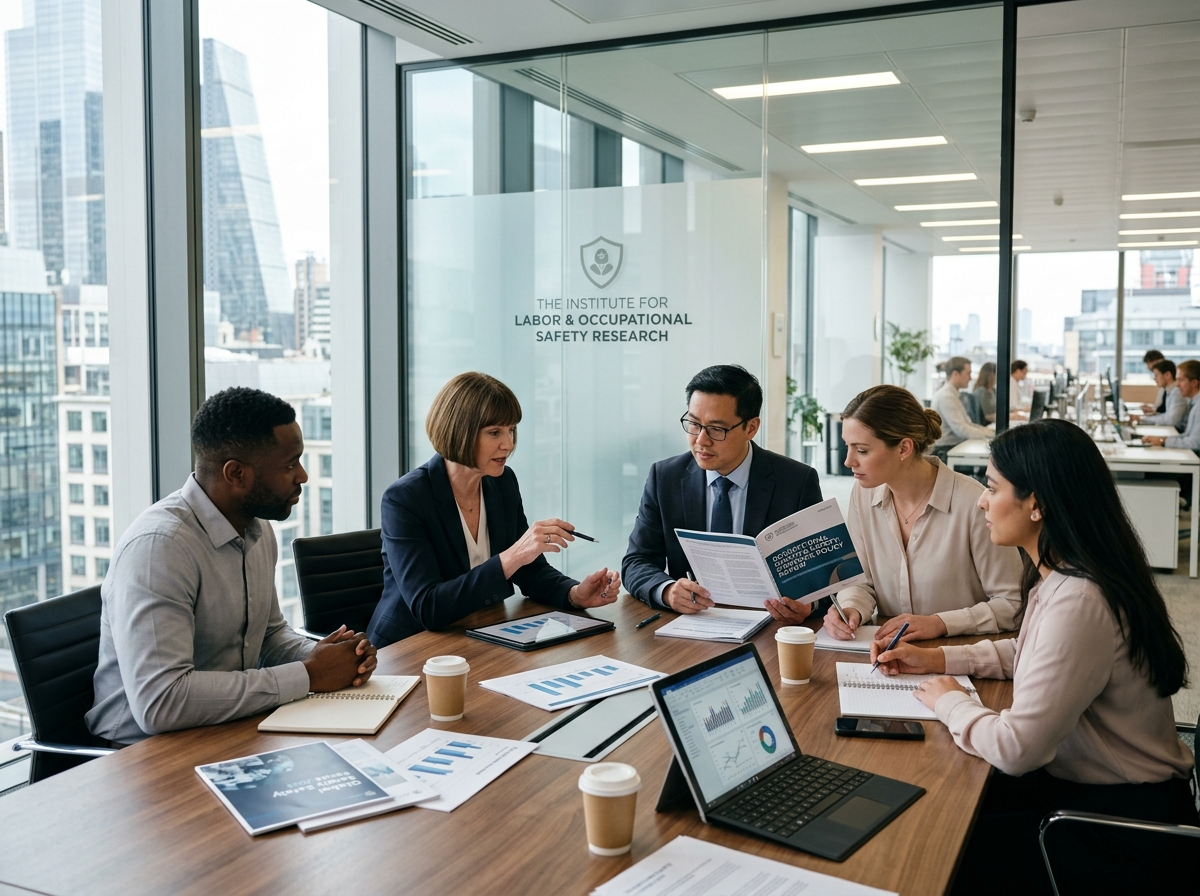
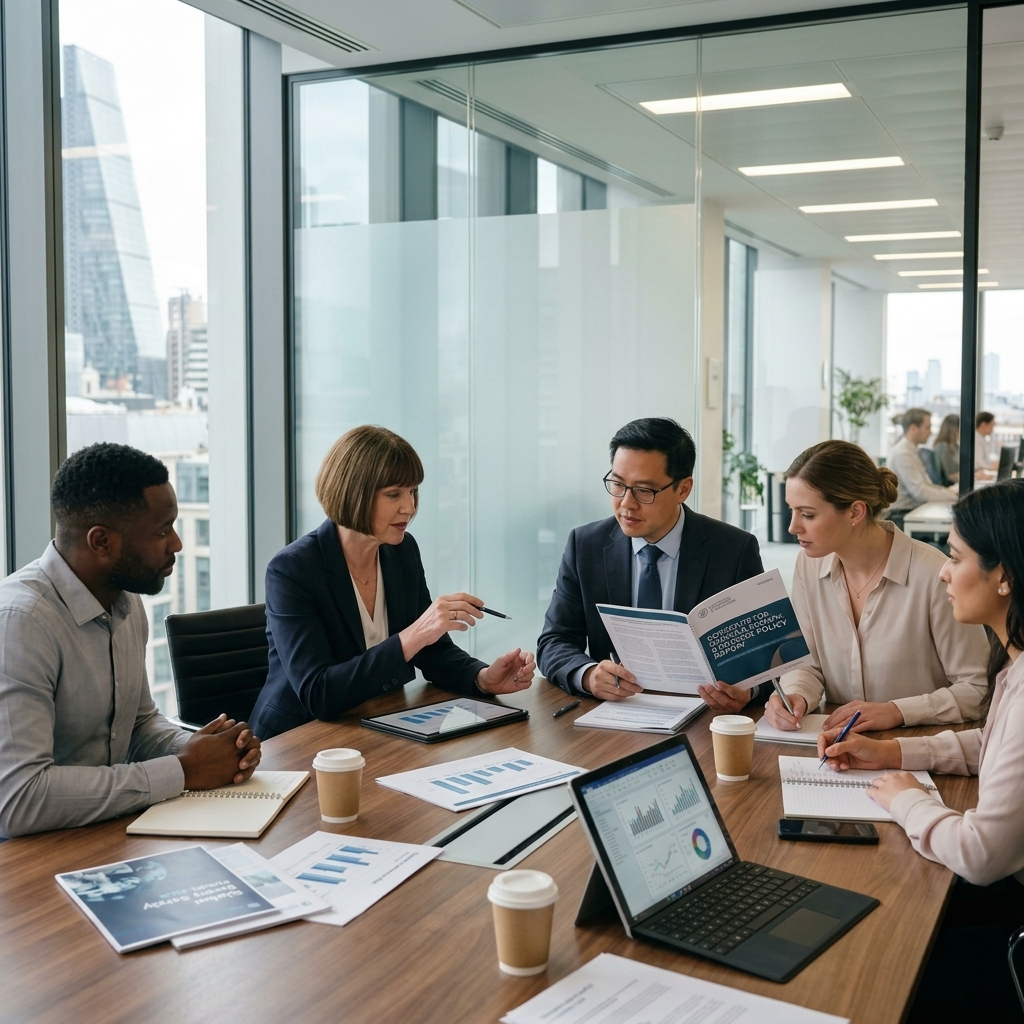
fix: align article detail layout and hero with navbar header

diff --git a/Laravel/public/css/articles.css b/Laravel/public/css/articles.css
@@ -210,7 +210,7 @@
     display: grid;
     grid-template-columns: 2fr 1fr;
     gap: 48px;
-    padding: 60px 0;
+    padding: 60px 24px;
     background-color: white;
 }
 

diff --git a/public_html/css/articles.css b/public_html/css/articles.css
@@ -210,7 +210,7 @@
     display: grid;
     grid-template-columns: 2fr 1fr;
     gap: 48px;
-    padding: 60px 0;
+    padding: 60px 24px;
     background-color: white;
 }
 

diff --git a/Laravel/resources/views/articles/show.blade.php b/Laravel/resources/views/articles/show.blade.php
@@ -10,7 +10,7 @@
 <section class="hero-premium" style="min-height: 300px; height: 40vh; text-align: left;">
     <img src="https://images.unsplash.com/photo-1507679799987-c73779587ccf?q=80&w=2071&auto=format&fit=crop" alt="Article Header" class="hero-premium-bg" style="filter: brightness(0.6);">
     <div class="hero-premium-overlay" style="background: linear-gradient(to right, rgba(15, 26, 92, 0.95), rgba(15, 26, 92, 0.6));"></div>
-    <div class="hero-premium-content container" style="padding-top: 0; text-align: left; max-width: 100%;">
+    <div class="hero-premium-content container" style="padding-top: 0; text-align: left; max-width: 1200px; width: 100%;">
         <div style="margin-bottom: 20px; font-size: 14px; color: rgba(255,255,255,0.6);">
             <a href="{{ route('home') }}" style="color: var(--accent);">Beranda</a> &gt; 
             <a href="{{ route('articles.index') }}" style="color: var(--accent);">Artikel</a> &gt; 
@@ -45,7 +45,7 @@
 </section>
 
 <!-- Article Body Content -->
-<section style="background-color: white; padding: 20px">
+<section style="background-color: white;">
     <div class="container article-detail-layout">
         
         <!-- Left Main Content Column -->
